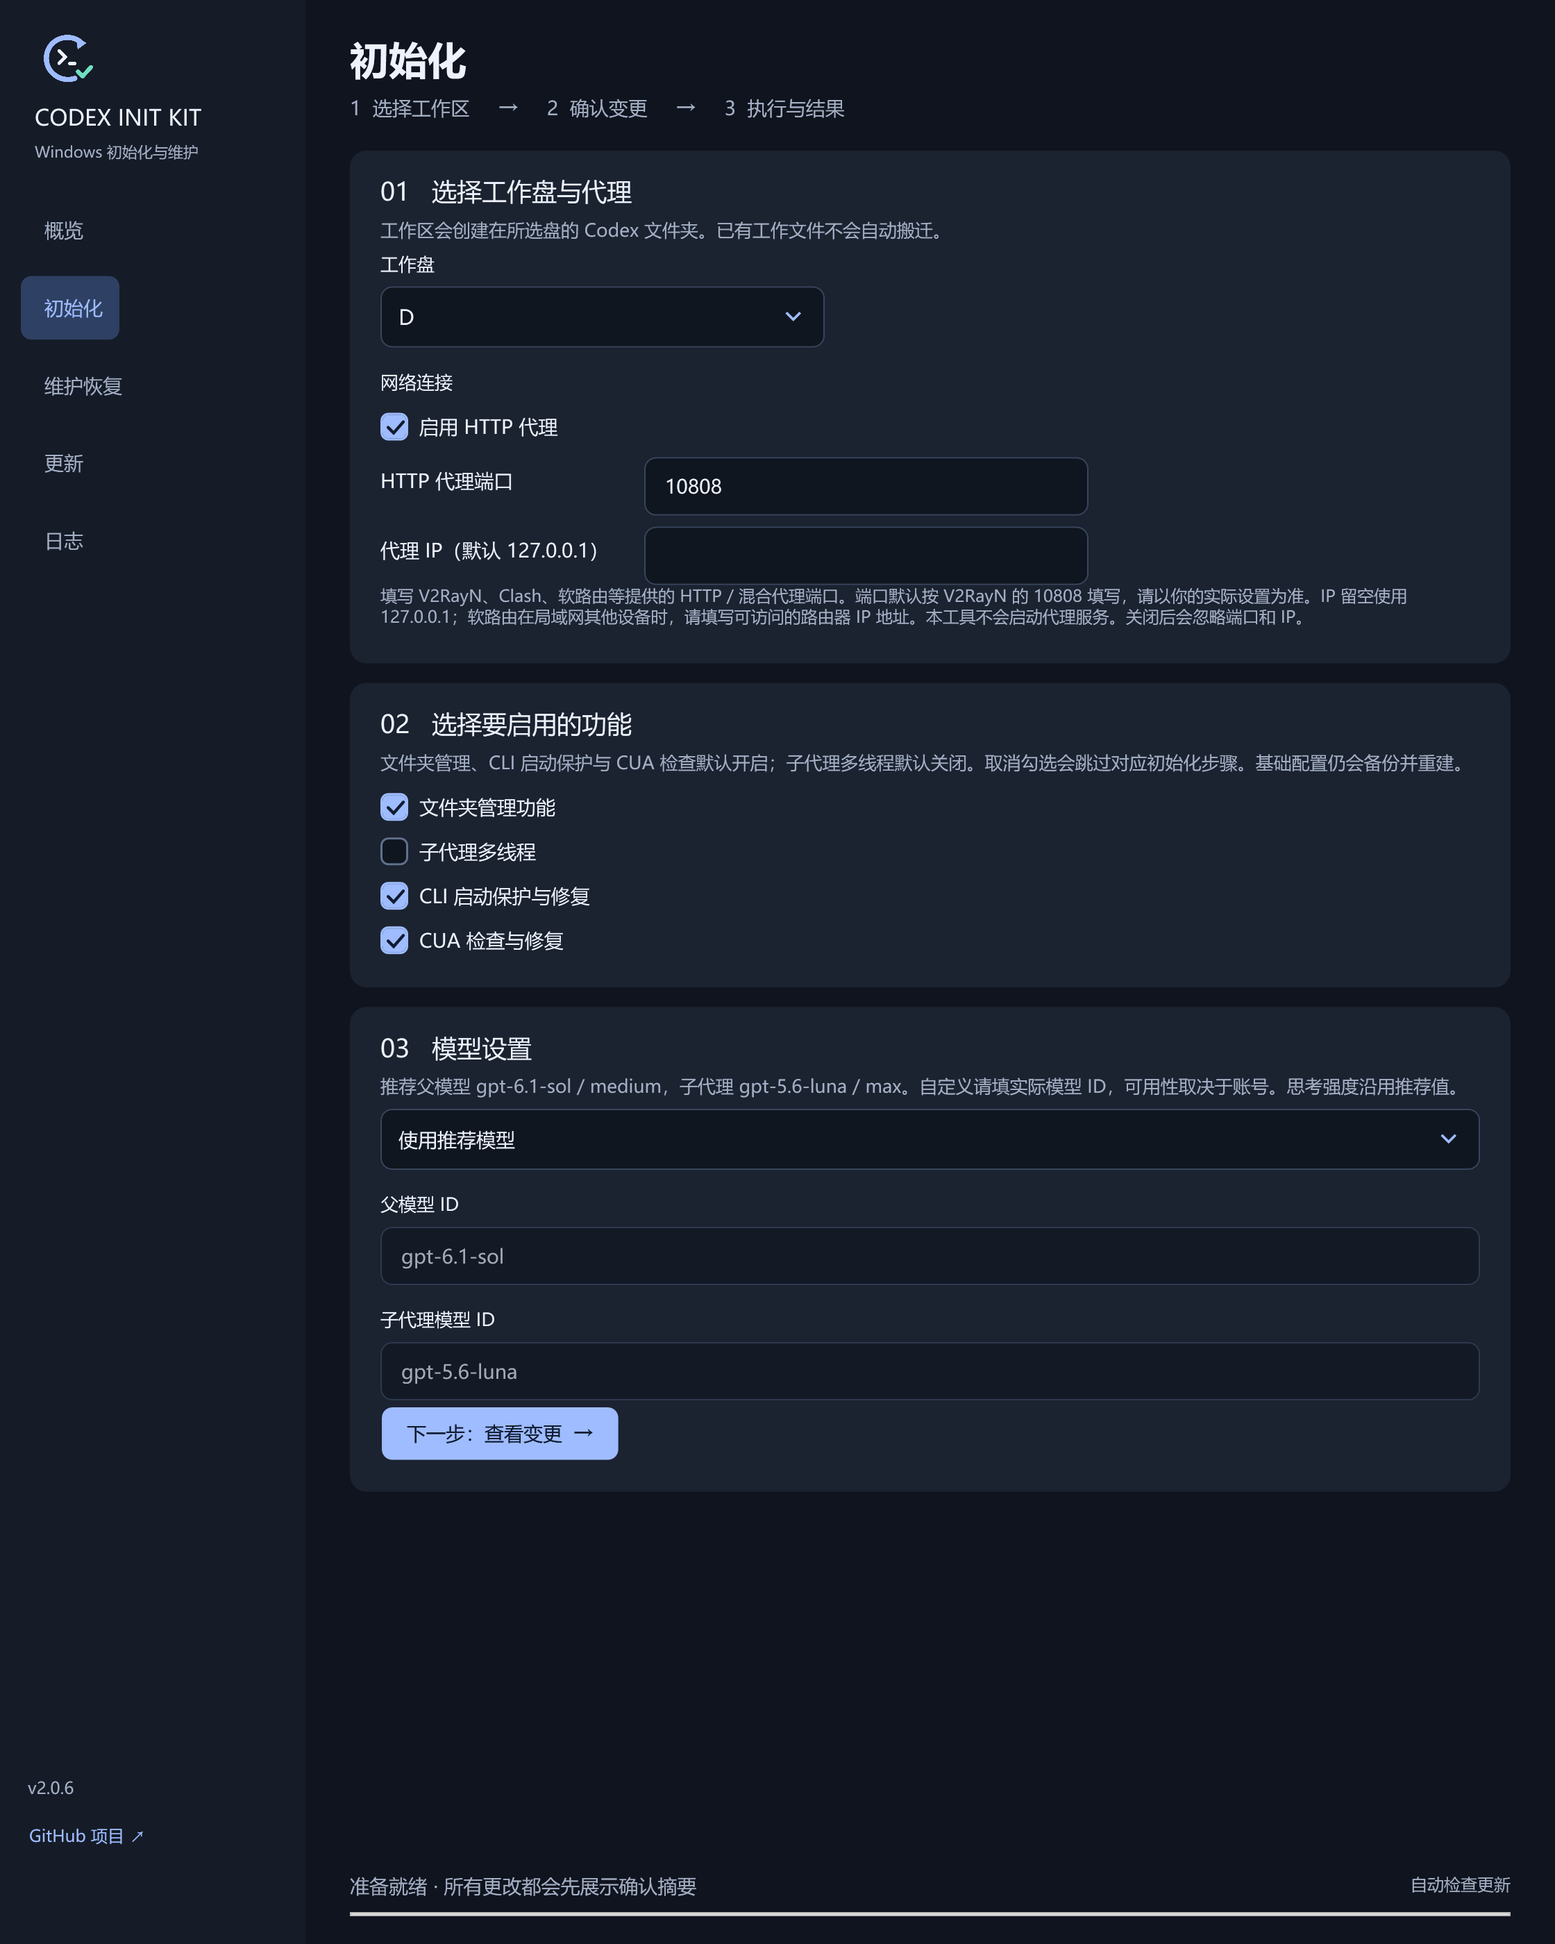
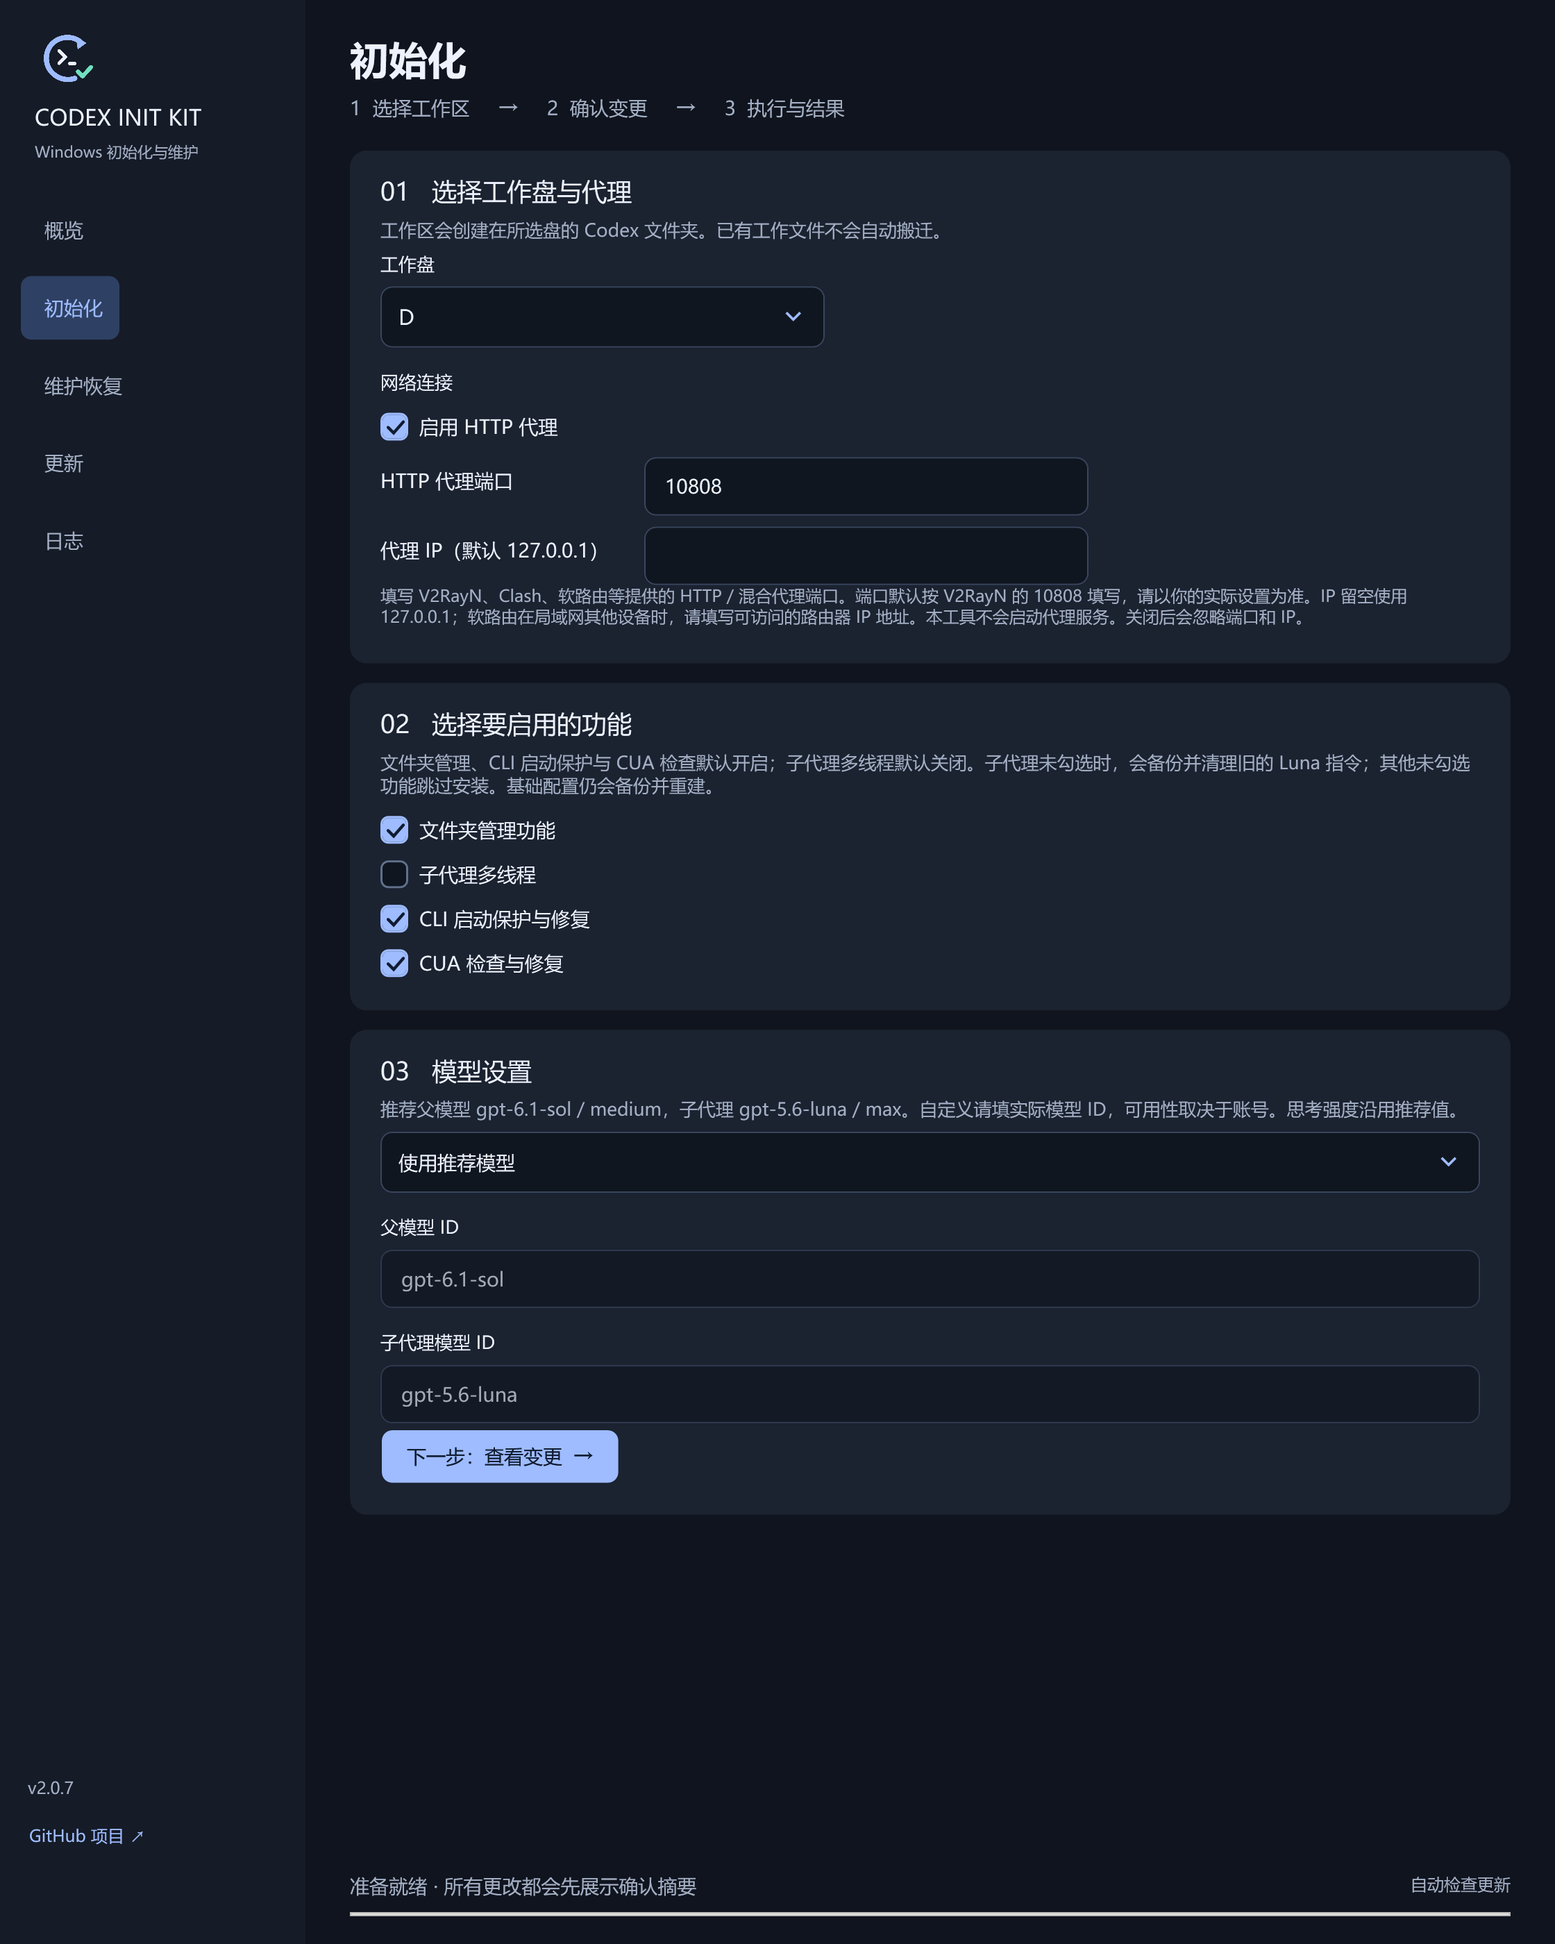
Clean managed Luna rules when initialization disables subagents

Changed region(s): [[0.25, 0.5282, 0.9375, 0.7768], [0.2188, 0.4039, 0.375, 0.4971], [0.625, 0.3729, 0.9375, 0.4039]]

diff --git a/app/MainWindow.cs b/app/MainWindow.cs
@@ -140,7 +140,7 @@ public class MainWindow : Window {
             var portRow=new StackPanel{Orientation=Orientation.Horizontal,Margin=new Thickness(0,0,0,8)};portRow.Children.Add(new TextBlock{Text="HTTP 代理端口",Width=180,Foreground=TextBrush,VerticalAlignment=VerticalAlignment.Center,Margin=new Thickness(0,0,10,8)});portRow.Children.Add(port);proxyRows.Children.Add(portRow);
             var hostRow=new StackPanel{Orientation=Orientation.Horizontal};hostRow.Children.Add(new TextBlock{Text="代理 IP（默认 127.0.0.1）",Width=180,Foreground=TextBrush,VerticalAlignment=VerticalAlignment.Center,Margin=new Thickness(0,0,10,8)});hostRow.Children.Add(proxyHost);proxyRows.Children.Add(hostRow);p.Children.Add(proxyRows);
             p.Children.Add(T("填写 V2RayN、Clash、软路由等提供的 HTTP／混合代理端口。端口默认按 V2RayN 的 10808 填写，请以你的实际设置为准。IP 留空使用 127.0.0.1；软路由在局域网其他设备时，请填写可访问的路由器 IP 地址。本工具不会启动代理服务。关闭后会忽略端口和 IP。",12,MutedBrush));
-            var features=Card("02   选择要启用的功能","文件夹管理、CLI 启动保护与 CUA 检查默认开启；子代理多线程默认关闭。取消勾选会跳过对应初始化步骤。基础配置仍会备份并重建。");foreach(var check in new[]{folderManagement,subagents,guard,cuaRepair})features.Children.Add(check);
+            var features=Card("02   选择要启用的功能","文件夹管理、CLI 启动保护与 CUA 检查默认开启；子代理多线程默认关闭。子代理未勾选时，会备份并清理旧的 Luna 指令；其他未勾选功能跳过安装。基础配置仍会备份并重建。");foreach(var check in new[]{folderManagement,subagents,guard,cuaRepair})features.Children.Add(check);
             var models=Card("03   模型设置","推荐父模型 gpt-6.1-sol / medium，子代理 gpt-5.6-luna / max。自定义请填实际模型 ID，可用性取决于账号。思考强度沿用推荐值。");models.Children.Add(modelMode);models.Children.Add(T("\n父模型 ID",13,TextBrush));models.Children.Add(parentModel);models.Children.Add(T("\n子代理模型 ID",13,TextBrush));models.Children.Add(childModel);
             models.Children.Add(Button("下一步：查看变更  →",()=>{try{Port();Drive();Options();wizard=1;Navigate("初始化");}catch(Exception ex){Error(ex);}},true));
         } else if(wizard==1) {
@@ -149,7 +149,7 @@ public class MainWindow : Window {
             Row(p,Button("返回修改",()=>{wizard=0;Navigate("初始化");},false),Button("确认并开始初始化",async()=>{if(Confirm("开始初始化",InitSummary()+"\n\n将停止正在运行的 Codex 进程。请先保存其他窗口的工作。")){wizard=2;Navigate("初始化");await Run("initialize","初始化",false);}},true));
         } else { var p=Card("03   执行与结果",busy?"正在执行，请保留窗口。":"完整结果与备份位置见下方日志。"); p.Children.Add(log); Row(p,Button("查看全部日志",()=>Navigate("日志"),false),Button("重新设置",()=>{if(!busy){wizard=0;Navigate("初始化");}},false)); }
     }
-    string InitSummary() {var options=Options();return "工作盘："+Drive()+":\n父模型："+options["parentModel"]+" / medium\n子代理："+(subagents.IsChecked==true?options["childModel"]+" / max":"跳过规则安装")+"\n代理："+ProxySummary()+"\n文件夹管理："+(folderManagement.IsChecked==true?"创建并绑定标准目录":"跳过")+"\nCUA 检查与修复："+(cuaRepair.IsChecked==true?"按需执行":"跳过")+"\nCLI 启动保护与修复："+(guard.IsChecked==true?"安装，包含登录自动维护":"跳过")+"\n基础配置将备份并重建，更新用户 PATH。初始化和 CUA 分别备份。";}
+    string InitSummary() {var options=Options();return "工作盘："+Drive()+":\n父模型："+options["parentModel"]+" / medium\n子代理："+(subagents.IsChecked==true?options["childModel"]+" / max":"关闭并清理旧的 Luna 指令（先备份）")+"\n代理："+ProxySummary()+"\n文件夹管理："+(folderManagement.IsChecked==true?"创建并绑定标准目录":"跳过")+"\nCUA 检查与修复："+(cuaRepair.IsChecked==true?"按需执行":"跳过")+"\nCLI 启动保护与修复："+(guard.IsChecked==true?"安装，包含登录自动维护":"跳过")+"\n基础配置将备份并重建，更新用户 PATH。初始化和 CUA 分别备份。";}
     void ActionCard(string title,string description,string label,string op,bool danger) {
         var p=Card(title,description); p.Children.Add(Button(label,async()=>await Run(op,title,true),!danger));
     }

diff --git a/app/Core.cs b/app/Core.cs
@@ -16,7 +16,7 @@ using System.Net.Sockets;
 
 namespace CodexKit {
 public static class Core {
-    public const string Version = "2.0.6";
+    public const string Version = "2.0.7";
     public const string Repository = "BerryFuwawa/codex-init-kit";
     public static readonly string Root = Path.Combine(Environment.GetFolderPath(Environment.SpecialFolder.LocalApplicationData), "CodexInitKit", "Desktop");
     public static readonly JavaScriptSerializer Json = new JavaScriptSerializer();

diff --git a/app/AssemblyInfo.cs b/app/AssemblyInfo.cs
@@ -2,5 +2,5 @@ using System.Reflection;
 [assembly:AssemblyTitle("Codex Init Kit")]
 [assembly:AssemblyDescription("Codex workspace initialization, CUA repair and startup protection")]
 [assembly:AssemblyProduct("Codex Init Kit Desktop")]
-[assembly:AssemblyVersion("2.0.6.0")]
-[assembly:AssemblyFileVersion("2.0.6.0")]
+[assembly:AssemblyVersion("2.0.7.0")]
+[assembly:AssemblyFileVersion("2.0.7.0")]

diff --git a/docs/Desktop.md b/docs/Desktop.md
@@ -1,4 +1,4 @@
-# Codex Init Kit Desktop 2.0.6
+# Codex Init Kit Desktop 2.0.7
 
 这个程序把初始化、电脑操作组件修复和启动维护放进一个窗口。下载 `CodexInitKit.exe` 就能使用，所需脚本已包含在程序里。
 
@@ -26,9 +26,9 @@ CUA 组件目录为 `%LOCALAPPDATA%\OpenAI\Codex\runtimes\cua_node`。有些 Win
 
 ## 获取与启动
 
-v2.0.6 已发布：[BerryFuwawa/codex-init-kit v2.0.6](https://github.com/BerryFuwawa/codex-init-kit/releases/tag/v2.0.6)。下载 [CodexInitKit.exe](https://github.com/BerryFuwawa/codex-init-kit/releases/download/v2.0.6/CodexInitKit.exe) 即可启动，无需旁置 CMD 或自行编译。环境要求为 Windows x64、.NET Framework 4.8 和 Windows PowerShell 5.1；EXE 尚未做代码签名。
+v2.0.7 已发布：[BerryFuwawa/codex-init-kit v2.0.7](https://github.com/BerryFuwawa/codex-init-kit/releases/tag/v2.0.7)。下载 [CodexInitKit.exe](https://github.com/BerryFuwawa/codex-init-kit/releases/download/v2.0.7/CodexInitKit.exe) 即可启动，无需旁置 CMD 或自行编译。环境要求为 Windows x64、.NET Framework 4.8 和 Windows PowerShell 5.1；EXE 尚未做代码签名。
 
-正式文件的 SHA-256 与大小可在发布页资产信息和 [SHA256SUMS.txt](https://github.com/BerryFuwawa/codex-init-kit/releases/download/v2.0.6/SHA256SUMS.txt) 中核对。
+正式文件的 SHA-256 与大小可在发布页资产信息和 [SHA256SUMS.txt](https://github.com/BerryFuwawa/codex-init-kit/releases/download/v2.0.7/SHA256SUMS.txt) 中核对。
 
 首次使用可直接下载 EXE。已有版本可启动后检查更新，也可手动下载替换。
 
@@ -38,7 +38,9 @@ v2.0.6 已发布：[BerryFuwawa/codex-init-kit v2.0.6](https://github.com/BerryF
 
 ## 页面
 
-「初始化」支持代理开关（默认开启，端口 `10808`）、四项可选功能（子代理默认关闭，其余默认开启），以及推荐／自定义模型。取消勾选会跳过对应步骤；基础配置仍会备份并重建。第一行填写代理端口，第二行填写 IP，留空使用 "127.0.0.1"。初始化全部成功后会弹出完成提示，点击「确认」关闭。概览会分别显示当前 CLI 模式和启动保护安装状态；模式依据当前启动配置判断，异常覆盖不会直接归类为官方独立 CLI。各选项的作用和填写方法见 [初始化选项](Settings.md)。
+「初始化」支持代理开关（默认开启，端口 `10808`）、四项可选功能（子代理默认关闭，其余默认开启），以及推荐／自定义模型。取消勾选会跳过对应安装步骤；子代理多线程未勾选时还会将 `multi_agent` 设为 `false`，并清理完整的工具托管旧 Luna 指令。基础配置仍会备份并重建。第一行填写代理端口，第二行填写 IP，留空使用 "127.0.0.1"。初始化全部成功后会弹出完成提示，点击「确认」关闭。概览会分别显示当前 CLI 模式和启动保护安装状态；模式依据当前启动配置判断，异常覆盖不会直接归类为官方独立 CLI。各选项的作用和填写方法见 [初始化选项](Settings.md)。
+
+子代理多线程未勾选时，初始化会先把 `$CODEX_HOME\AGENTS.md` 的完整原文件备份为 `$CODEX_HOME\AGENTS.md.before-luna-cleanup-<GUID>.bak`，再只移除本工具托管且起止标记完整的 Luna 指令块。用户自己的内容、文件夹规则和其他规则会保留；标记嵌套、缺失、未配对或不完整时会停止清理，不会宽泛删除或改写 `AGENTS.md`。
 
 | 页面 | 用途 | 主要动作 |
 | --- | --- | --- |
@@ -54,7 +56,7 @@ v2.0.6 已发布：[BerryFuwawa/codex-init-kit v2.0.6](https://github.com/BerryF
 
 | 项目 | 默认值或位置 |
 | --- | --- |
-| 版本 | `2.0.6` |
+| 版本 | `2.0.7` |
 | 工作目录 | `<盘符>:\Codex`；默认选 `D`，不可用时选择第一个可用固定盘 |
 | 本地代理 | `http://127.0.0.1:10808` |
 | 父模型 | `gpt-6.1-sol`，`medium` |

diff --git a/README.md b/README.md
@@ -55,7 +55,7 @@
 
 ## 第一次用，怎么选？
 
-初始化页面现在可以自行选择：HTTP 代理默认开启，端口预填 `10808`，IP 留空使用 `127.0.0.1`；文件夹管理、CLI 启动保护与修复、CUA 检查与修复默认勾选，子代理多线程默认不勾选。取消勾选会跳过对应步骤，基础配置仍会备份并重建。模型默认沿用推荐值，也可以选择「自定义」填写父模型和子代理模型 ID。详见 [初始化选项](docs/Settings.md)。
+初始化页面现在可以自行选择：HTTP 代理默认开启，端口预填 `10808`，IP 留空使用 `127.0.0.1`；文件夹管理、CLI 启动保护与修复、CUA 检查与修复默认勾选，子代理多线程默认不勾选。取消勾选子代理多线程会将 `multi_agent` 设为 `false`，并在初始化时备份后清理 `$CODEX_HOME\AGENTS.md` 中本工具托管且起止标记完整的旧 Luna 指令块；用户自己的内容、文件夹规则和其他规则会保留。清理前的原文件完整备份为 `$CODEX_HOME\AGENTS.md.before-luna-cleanup-<GUID>.bak`。标记嵌套、缺失、未配对或不完整时会停止清理，不会宽泛删除。其他取消勾选仍会跳过对应步骤，基础配置仍会备份并重建。模型默认沿用推荐值，也可以选择「自定义」填写父模型和子代理模型 ID。详见 [初始化选项](docs/Settings.md)。
 
 - **只是想检查，或者只修一个问题：** 先看「概览」，再到「维护恢复」选对应项目。
 - **想把配置重新整理一遍：** 使用「初始化」。它会备份并重建配置，已有自定义设置需要重新确认。
@@ -93,7 +93,7 @@
            → 可选安装启动保护
 ```
 
-默认按上述顺序执行，取消勾选的功能会跳过。启用文件夹管理时，绑定校验通过后才继续；启用 CUA 时，修复失败会停止后续子代理规则安装。
+默认按上述顺序执行，取消勾选的功能会跳过对应安装步骤；子代理多线程未勾选时仍会关闭 `multi_agent` 并清理完整的工具托管旧 Luna 指令。启用文件夹管理时，绑定校验通过后才继续；启用 CUA 时，修复失败会停止后续子代理规则安装。
 
 ### 默认设置
 
@@ -143,7 +143,7 @@
 
 ![Codex Init Kit 维护恢复页面](assets/screenshots/maintenance.png)
 
-图片来自当前 2.0.6 EXE，按 192 DPI（200% 缩放）离线渲染，点击图片可查看高清原图。初始化设置图包含代理端口与 IP、四项功能选择和自定义模型；子代理默认未勾选。图中展开了完整内容，实际窗口可滚动。概览使用示例状态，未执行真实初始化或修复，状态以你电脑上的检测结果为准。
+图片来自当前 2.0.7 EXE，按 192 DPI（200% 缩放）离线渲染，点击图片可查看高清原图。初始化设置图包含代理端口与 IP、四项功能选择和自定义模型；子代理默认未勾选。图中展开了完整内容，实际窗口可滚动。概览使用示例状态，未执行真实初始化或修复，状态以你电脑上的检测结果为准。
 
 ## CLI 验证与源码构建
 

diff --git a/docs/Settings.md b/docs/Settings.md
@@ -1,4 +1,4 @@
-# 初始化选项（2.0.6）
+# 初始化选项（2.0.7）
 
 可在初始化页面选择代理、功能和模型，确认页会展示本次实际选择。
 
@@ -19,7 +19,7 @@
 - CLI 启动保护与修复：检查／准备启动组件，安装登录维护任务。
 - CUA 检查与修复：检查电脑操作组件，异常时修复。
 
-基础配置仍会备份并重建。取消勾选不是卸载入口，不代表清除此前已经安装的功能。初始化前保存工作；仅需单项操作时使用「维护恢复」。
+基础配置仍会备份并重建。取消勾选不是卸载入口，但子代理多线程是例外：未勾选时会将 `multi_agent` 设为 `false`，并在 `$CODEX_HOME\AGENTS.md` 中清理本工具托管且起止标记完整的旧 Luna 指令块。清理前会把 `AGENTS.md` 的完整原文件备份为 `$CODEX_HOME\AGENTS.md.before-luna-cleanup-<GUID>.bak`；用户自己的内容、文件夹规则和其他规则会保留。若标记嵌套、缺失、未配对或不完整，会停止清理，不会宽泛删除或改写该文件。初始化前保存工作；仅需单项操作时使用「维护恢复」。
 
 ## 模型
 

diff --git a/docs/Release-2.0.7.md b/docs/Release-2.0.7.md
@@ -1,0 +1,9 @@
+# Codex Init Kit 2.0.7
+
+2.0.7 修复了初始化时旧子代理指令残留的问题：初始化时未勾选子代理多线程，会明确关闭 `multi_agent`，并清理 `$CODEX_HOME\AGENTS.md` 中本工具托管且起止标记完整的旧 Luna 指令块。
+
+- 清理前把 `AGENTS.md` 的完整原文件备份为 `$CODEX_HOME\AGENTS.md.before-luna-cleanup-<GUID>.bak`。
+- 用户自己的内容、文件夹规则和其他规则会保留。
+- 标记嵌套、缺失、未配对或不完整时停止清理，不会宽泛删除或改写 `AGENTS.md`。
+
+已通过隔离回归和内置 CLI 自验；验证未执行真实初始化，也未修改使用中的 Codex 配置。
